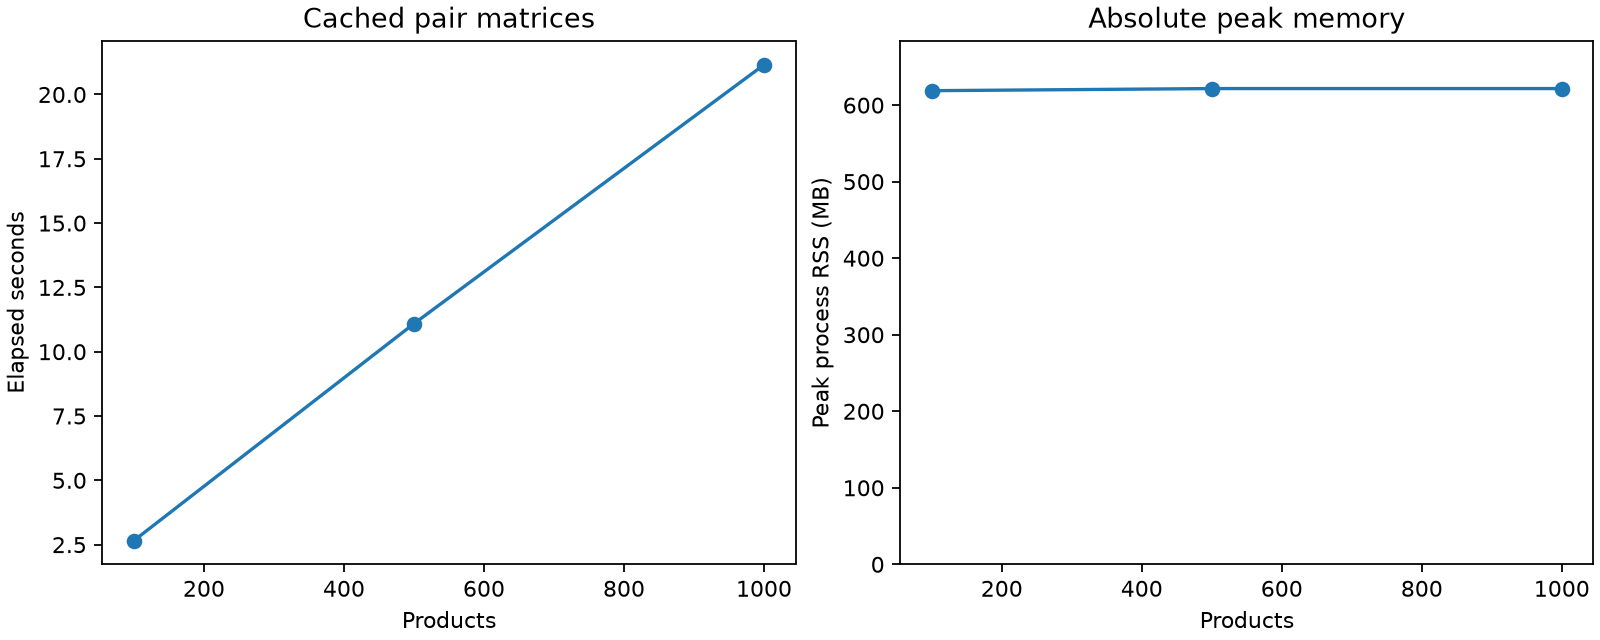
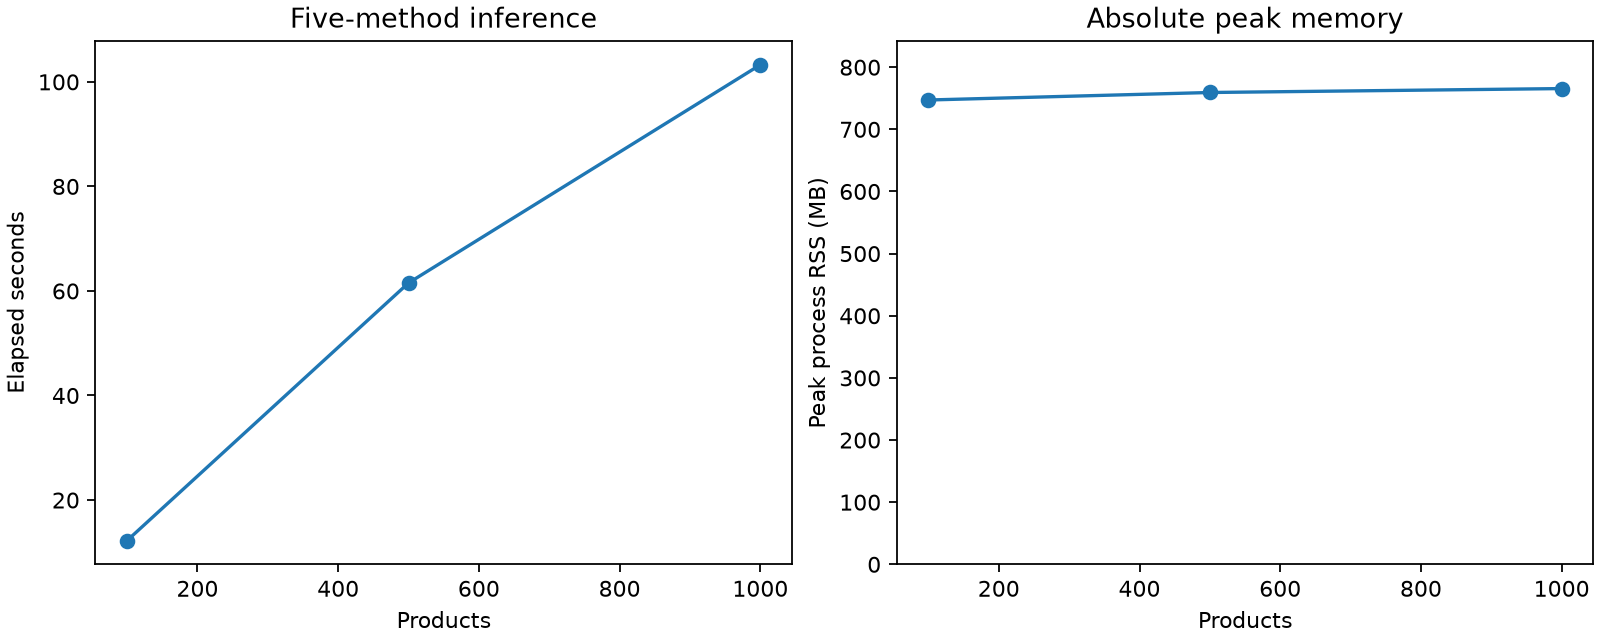
Complete redundancy benchmark and reproducible handoff report

diff --git a/report/experiment_results.md b/report/experiment_results.md
@@ -1,0 +1,119 @@
+# 组员一真实实验与交接报告
+
+## 结论及范围
+
+已完成固定数据审计、6,000对真实评论的自动辅助标注、2,000个合成训练正例与100个变换审阅、A—E五方法训练/对照、参数锁定后一次最终测试，以及全部同ASIN对推断。验证选型目标没有方法达标；五方法保留为探索性候选。
+
+标签未经独立人类金标准复核；候选按相似度、随机和短文配额富集。评价只说明这一固定参考标签集上的表现，不能估计自然重复率或判断水军。全量输出全部review，不直接赋予降权权重，不生成传递重复组。
+
+## 数据与版本
+
+- 固定样本90,750行、1,000个ASIN、71,133个用户。
+- SHA-256：8f1037a6987436a7c19b56766c42969526374145b8d02dde02caa5b1b750f0ec。
+- 五字段额外副本231行；同商品文本重复594组、额外632行；跨商品文本重复1075组。
+- 全样本措辞重复额外6855行，与同商品口径不同且有重叠，不能相加。
+- 有界扫描100万、局部缓冲打乱、按观测频次挑1,000商品、每商品最多100条；不是类别总体均匀随机抽样。未保留parent_asin，原下载revision未记录。
+- 改进清洗与旧版本12条差异留表；原五字段CSV未改写。异常排除及全部字段见data_audit.md。
+
+## 方法定义
+
+|方法|实现|分数含义|
+|---|---|---|
+|A|规范化精确匹配|相同正文标记0/1|
+|B|字符TF-IDF阈值|字符3—5 gram余弦相似度|
+|C|词面特征逻辑回归|未校准分类器输出|
+|D|固定MiniLM语义向量阈值|语义向量余弦相似度|
+|E|词面加语义特征逻辑回归|未校准分类器输出|
+
+## 标签与训练
+
+| split | label | n |
+| --- | --- | --- |
+| train | exact | 1 |
+| train | near | 184 |
+| train | distinct | 2073 |
+| train | uncertain | 1742 |
+| validation | exact | 0 |
+| validation | near | 83 |
+| validation | distinct | 467 |
+| validation | uncertain | 450 |
+| test | exact | 0 |
+| test | near | 44 |
+| test | distinct | 661 |
+| test | uncertain | 295 |
+
+同商品分组划分700/150/150个ASIN；跨集合相同规范化正文进入公共模板池。保留原600与1200批次，最终批次固定在模型拟合之前，不依据测试成绩补标。训练只用确定参考标签2258对；uncertain不强行转为负例。
+
+合成训练2000对，总权重564.50，真实确定训练权重2258；合成占合并权重20%。复制、空格、大小写、标点和受限拼写变动各审20例，来源均为训练评论。
+
+TF-IDF仅拟合训练记录，char_wb 3—5 gram/min_df2/max100,000。C/E数值特征标准化后L2逻辑回归，只在验证集比较C=0.1/1/10；实际配置见models/model_lock.json。模型只用正文，不输入商品、用户、评分、时间或标签来源。
+
+## 验证选型及测试
+
+资格要求完整验证批次的保守precision下界≥95%，且至少30个允许正预测；不确定正预测纳入分母。验证结果见validation_comparison.csv，包括原150、增补300、新增550三个批次。选型结果：none。不达标配置按已锁定的探索阈值评价，不能解释为自动识别部署。
+
+最终测试共1000对；确定二分类705对、不确定295对。阈值及模型在读取测试标签前锁定，之后没有据测试调参。
+
+| method | threshold | n | TP | FP | FN | TN | precision | recall | F1 | precision bound | unresolved positive |
+| --- | --- | --- | --- | --- | --- | --- | --- | --- | --- | --- | --- |
+| A | 1.000000 | 705 | 0 | 0 | 44 | 661 | undefined (no positive prediction) | 0.00% | 0.00% | undefined | 0 |
+| B | 0.800000 | 705 | 0 | 1 | 44 | 660 | 0.00% | 0.00% | 0.00% | 0.00% to 0.00% | 0 |
+| C | 0.500000 | 705 | 2 | 1 | 42 | 660 | 66.67% | 4.55% | 8.51% | 11.76% to 94.12% | 14 |
+| D | 0.800000 | 705 | 15 | 143 | 29 | 518 | 9.49% | 34.09% | 14.85% | 7.21% to 31.25% | 50 |
+| E | 0.500000 | 705 | 2 | 1 | 42 | 660 | 66.67% | 4.55% | 8.51% | 11.76% to 94.12% | 14 |
+
+C/E各只有3个确定标签上的正预测（2真阳性、1假阳性），另有14个不确定正候选；66.67%不包含这些不确定项，不能视为稳定高精确率。
+
+无正预测时precision及其区间无定义，图中标为N/A；CSV数值0需结合precision_defined=False解读，不能解释为产生了错误正预测。精确匹配A只覆盖相同措辞，监督池移除公共模板和记录副本后，自然完全匹配正例可能很少。
+
+### 商品bootstrap，1,000次、seed42
+
+| method | products | status | precision 95% CI | recall 95% CI | F1 95% CI |
+| --- | --- | --- | --- | --- | --- |
+| A | 141 | ok | undefined/unavailable | 0.00% to 0.00% | 0.00% to 0.00% |
+| B | 141 | ok | 0.00% to 0.00% | 0.00% to 0.00% | 0.00% to 0.00% |
+| C | 141 | ok | 0.00% to 100.00% | 0.00% to 12.20% | 0.00% to 21.29% |
+| D | 141 | ok | 4.82% to 14.86% | 20.75% to 45.66% | 8.00% to 22.03% |
+| E | 141 | ok | 0.00% to 100.00% | 0.00% to 11.76% | 0.00% to 20.41% |
+
+重采样单位为ASIN，有效重采样不足时标为unavailable。区间反映该富集参考标签基准的不确定性，未证明自然场景95%精确率。
+
+### 语义增量
+
+E相对C的测试precision差+0.00个百分点、recall差+0.00个百分点、F1差+0.00个百分点。这是观察差异，不是显著性结论，也不能据测试差异重选模型。语义向量缓存约133MiB，额外编码耗时见性能节；当前配置没有观察到这一成本带来的增量收益。
+
+MiniLM固定revision 1110a243fdf4706b3f48f1d95db1a4f5529b4d41，384维、float32归一化、最长256 word pieces；1324条评论被截断。长文本分组、exact/near/distinct/short及各批次结果见test_breakdowns.csv。编码器未微调。共同商品词、相似情绪与否定差异仍需看正文判断。
+
+## 错误与合成检查
+
+error_cases.csv提供21个错误/不确定案例及正文、参考理由、五方法分数和下游风险；各类最多10个、不足全部展示。案例按E方法已锁定的探索阈值整理，并附五种方法分数；不是全体方法错误的全集。具体原因复核记录见error_cases_review.csv及error_analysis.md。全量待复核不会自动误降权。
+
+合成测试只使用测试集合原评论，单独报告已知复制/扰动检出率，precision/F1因只有正例而无定义。详见synthetic_test_detection.csv，共25个方法/变换组合；C/E对本批复制及扰动全部检出，但真实近似重复召回仍低，说明这些合成变换的难度与真实改写不同，不替代真实评价。
+
+## 性能与全量结果
+
+模型首次加载/下载35.74秒，独立正文GPU编码45.91秒，torch峰值分配显存387.99MiB。缓存推断使用CPU词面/分类及现有向量，不重复下载或编码。
+
+| products | reviews | pairs | seconds | peak_rss_mb | gpu_peak_mb |
+| --- | --- | --- | --- | --- | --- |
+| 100 | 9258 | 430688 | 12.252 | 747.211 | 0 |
+| 500 | 45585 | 2092467 | 61.535 | 759.277 | 0 |
+| 1000 | 90750 | 4146325 | 103.268 | 765.59 | 0 |
+
+表为完整五方法的特征、评分及决策，不含CSV写出。RSS为单进程绝对峰值，显存为本过程torch分配值，不代表整机占用。
+
+全部1000个商品、4,146,325对、20,731,625方法行已写至results/predictions/pair_scores.csv.gz。含压缩写出的耗时914.90秒、峰值RSS 658.24MiB。输出SHA及模型锁/评价SHA见manifest.json。阈值候选数量只是模型信号，不能作为已确认重复数或自然重复率。
+
+固定10商品交接位于results/handoff/，正文及review_id可回连；predict_pairs与score_product具体调用见runbook.md及handoff_contract.md。原五字段接口保持不变。每对五行包含pair_id、asin、两个review_id、method、score、decision、reason。余弦和未校准分类器分数不能称真实重复概率。
+
+## 工程验收与文件管理
+
+工程问题与修正见third_party_review.md；实际验收见acceptance_report.json。夹具成绩不当作真实模型成绩。生成报告时的代码版本：73aa9d90b75ef286c9e923b7a7acc8916af92d2a。
+
+原始数据、标签、模型、CSV/JSON结果和带输出notebook保留本地；仓库提供代码、研究说明、图及无输出notebook模板。
+
+## 文件与后续建议
+
+完整路径/SHA清单位于artifact_inventory.csv。主要结果：test_comparison.csv、test_breakdowns.csv、test_product_bootstrap.csv、test_pair_predictions.csv、synthetic_test_detection.csv、error_cases.csv；主要图：test_model_comparison.png、test_confusion_matrices.png、final_label_composition.png、cached_pair_performance.png。
+
+组员二接入时先保留review标记，另行讨论降权政策。若要宣称自然场景可自动降权，后续需要独立人类双人标注和自然抽样的验证集，再固定新的实验版本；当前结论足以交付方法比较与复核接口。

diff --git a/report/runbook.md b/report/runbook.md
@@ -2,9 +2,11 @@
 
 ## 环境与状态
 
-Windows宿主，archlinux WSL，项目 /home/joestar/code/bigdata-review-analysis，现有.venv/Python3.14及RTX3060 Laptop 6GB。固定Amazon样本90750评论、1000ASIN。当前已固定6000对目标（4000/1000/1000），正在逐对标注及复核；未经人类金标准复核。当前进度及模型是否存在，以study status与实际文件为准，历史批次保存在data/annotation/original600与original1200。
+Windows宿主，archlinux WSL，项目 /home/joestar/code/bigdata-review-analysis，现有.venv/Python3.14及RTX3060 Laptop 6GB。固定Amazon样本90750评论、1000ASIN。已完成6000对判读（4000/1000/1000）、合成样本检查、五方法训练和锁定后的最终测试；参考标签未经独立人类验证。没有方法满足验证选型目标，全量交接保留待复核。实测结果见experiment_results.md；历史批次保存在data/annotation/original600与original1200。
 
 ## 运行顺序
+
+下列命令是从固定输入重建实验的阶段顺序。已有模型锁和最终评价时，直接查看交付文件或运行validate/report；不要再次拟合、调阈值或重跑测试来改进已封存结果。性能基准单独运行，避免其他计算任务争用资源。
 
 ~~~powershell
 wsl -d archlinux
@@ -59,11 +61,11 @@ product_scores = p.score_product(g[["asin", "review_id", "text"]])
 
 每对输出5行：pair_id、asin、review_id_a、review_id_b、method、score、decision、reason。A规范化匹配0/1，B字符TFIDF余弦，C词面逻辑回归输出，D编码器余弦，E词面+语义逻辑回归输出；分类器分数未校准，不能称真实重复概率。正文接口虚拟ID不能回连原CSV；交换两段正文保持同一pair_id。商品接口要求单ASIN、唯一ID、非空正文，每个已知ID的正文和ASIN必须核对，即使同时包含新ID。
 
-少于5词默认review并保留匹配信号。未训练C/E分数为空；训练后输出完整分数。逐商品计算全部对，不创建90k全局稠密矩阵；无降权权重、无自动传递聚类。错误消息指出缺标签、版本或校验失败，不能复用过期缓存/锁。
+少于5词默认review并保留匹配信号。当前C/E已训练，五种方法均输出完整分数。逐商品计算全部对，不创建90k全局稠密矩阵；无降权权重、无自动传递聚类。错误消息指出缺标签、版本或校验失败，不能复用过期缓存/锁。
 
 ## Git归档
 
-按阶段提交和推送代码、说明与安全图。保留用户原忽略设置；原始大样本、133MiB向量缓存及全量对输出留在WSL，不上传GitHub大文件。标签、CSV/JSON结果和带输出的notebook留本地，不通过强制加入绕过忽略规则。提交前运行scripts/check_git_scope.py。最终报告列实际提交ID、未完成门槛及留在本地的文件。
+按阶段提交和推送代码、说明与安全图。保留用户原忽略设置；原始大样本、133MiB向量缓存及全量对输出留在WSL，不上传GitHub大文件。标签、CSV/JSON结果和带输出的notebook留本地，不通过强制加入绕过忽略规则。提交前运行scripts/check_git_scope.py。最终报告列生成时的代码版本、验收结果及留在本地的文件。
 
 全量结果gzip使用固定mtime=0；manifest记录4,146,325评论对、五方法行数、输出SHA、模型锁SHA、最终评价SHA和实测耗时/内存。validate对总量、校验值和待复核决策范围核对。
 

diff --git a/report/implementation_status.md b/report/implementation_status.md
@@ -1,9 +1,20 @@
 # 实验实现状态
 
-固定样本90,750条评论、1,000个ASIN。6,000评论对按训练4,000、验证1,000、测试1,000划分，保留原600及1200批次。真实评论对已完成逐对判读和边界复核。验证标签已完成，测试标签封存。
+固定样本90,750条评论、1,000个ASIN；评论对基准为6,000对（训练4,000、验证1,000、测试1,000）。按商品划分，并隔离跨集合相同规范化正文。标签由自动辅助判读生成，尚未经过独立人类标注者验证。
 
-稳定编号、质量审计、字符TF-IDF、固定预训练MiniLM向量缓存、五方法训练与评价、商品内全部评论对推断及交接接口已经实现。38项工程测试通过；测试夹具不代表真实模型效果。100个合成变换检查正在进行；真实C/E训练、最终测试与全量推断尚未运行。
+## 已完成
 
-研究对象是文本信息冗余，不能据相同措辞推断评论者真实性。标注来源、抽样限制及评价适用范围见annotation_guide.md与data_audit.md。模型选择只使用验证集，测试在模型及阈值锁定后启封；全量结果用于复核，不直接生成降权权重或传递分组。
+- 数据版本固定、稳定编号、异常及三种重复口径审计。
+- 6,000对正文判读与边界复核；确定训练标签2,258对，其中重复185对、非重复2,073对。
+- 2,000个合成训练正例及100个变换检查；合成权重占合并训练权重20%。
+- 规范化精确匹配、字符TF-IDF、词面逻辑回归、固定MiniLM语义向量、词面加语义逻辑回归五种方法。
+- 验证选型、模型与阈值锁定、一次封存测试。测试确定标签705对，不确定295对。
+- 38项工程检查通过；夹具结果不代表真实模型效果。
 
-数据、标签、模型及CSV/JSON结果保留本地。执行步骤见runbook.md，固定版本所需输入见reproduction_inputs.md。
+## 实测结论
+
+没有方法满足预设的验证精确率95%及至少30个正预测要求。词面逻辑回归与加入语义特征的逻辑回归在锁定测试配置下结果一致：确定标签上精确率66.67%、召回率4.55%，仅3个正预测。单独语义阈值的精确率9.49%、召回率34.09%。这些是固定富集参考标签集的探索结果，不能外推为自然重复率或自动降权效果。
+
+全量1,000商品内部4,146,325对推断已完成，生成20,731,625方法行（压缩结果约570MiB）；10商品交接样例、汇总报告和结果图已生成。数据编号、划分、配对、缓存及全量输出溯源等9项实际验收全部通过；本地审计notebook的6个代码单元执行完成，无错误。全部输出保留待复核标记，不生成降权权重或传递重复组。最终报告位于experiment_results.md，执行及接口说明见runbook.md。
+
+研究对象是文字信息冗余，不能据相同措辞推断评论者真实性。抽样限制及标签定义见data_audit.md与annotation_guide.md。数据、标签、模型和CSV/JSON结果保留本地。

diff --git a/README.md b/README.md
@@ -60,7 +60,7 @@ Dataset source: [Amazon Reviews 2023 on Hugging Face](https://huggingface.co/dat
 
 当前固定样本90,750条/1,000ASIN。评论对基准固定为6,000对（训练4000、验证1000、测试1000；保留原600与1200批次），采用按商品划分和正文隔离。标注来源与适用范围见标注指南；全量交接保持待复核。
 
-详细状态见 [实测交付报告](report/implementation_status.md)，复现及接口见 [运行说明](report/runbook.md)，标注定义见 [标注指南](report/annotation_guide.md)。本地审计notebook已执行；仓库提供[无输出复现模板](notebooks/data_quality_audit_template.ipynb)。
+实测结果见 [实验与交接报告](report/experiment_results.md)，完成状态见 [实现状态](report/implementation_status.md)，复现及接口见 [运行说明](report/runbook.md)，标注定义见 [标注指南](report/annotation_guide.md)。本地审计notebook已执行；仓库提供[无输出复现模板](notebooks/data_quality_audit_template.ipynb)。
 
 ~~~bash
 cd /home/joestar/code/bigdata-review-analysis
@@ -71,5 +71,7 @@ cd /home/joestar/code/bigdata-review-analysis
 ~~~
 
 本地复核页面：http://localhost:8765 。稳定旁表位于data/processed/；标注位于data/annotation/；语义缓存位于models/；10商品交接预览位于results/handoff/。五字段reviews.csv保持原版本，改进清洗与旧版的12条正文差异已经单独记录。
+
+6,000对参考标签及五方法训练、最终测试已经完成；没有方法达到预设验证选型目标。当前词面与词面加语义逻辑回归的测试结果一致，全部候选用于复核。详细指标、样本数和适用范围见实验报告。
 
 模型代码仅使用正文特征，测试标签与训练隔离。冻结预训练MiniLM参数，不训练星级、情感或评论者身份模型，也不生成评分权重或传递重复组。

diff --git a/report/error_analysis.md b/report/error_analysis.md
@@ -1,0 +1,15 @@
+# 封存测试错误案例分析
+
+本次只解释现有 `results/tables/error_cases.csv` 中列出的正文、封存参考标签及已记录方法分数；未重标、重算或调整模型。逐例说明见 `results/tables/error_cases_review.csv`。案例依据E方法已锁定的探索阈值整理，同时保留五种方法分数。案例表共 21 条：误报 1 条、漏报 10 条、不确定 10 条。这些是现有错误案例表的覆盖数，不代表测试集全部错误案例。参考标签未经独立人类验证。
+
+## 观察到的错误形态
+
+唯一误报案例的两段都称产品好用、易安装，但只有一段明确提到耐用；共同商品词和通用赞语可能掩盖了信息差异。漏报案例多是具体体验的改写：如“two”与“2 pack”、Fitbit Charge 2 兼容、带壳使用、哑光外观、指纹识别失效，以及旧接口转接用途。型号、数量、条件、否定表达和长短差异都可能使词面重合有限。
+
+不确定案例的共同难点是证据粒度不足：短评只有“works great”“quality”“perfect”等泛化词，或一段具体长评与一句“Wife loved it”相比，无法确认两者谈的是同一项体验。相似的套话只能支持局部措辞重合，不能推断整条评论的信息等价。
+
+## 下游含义
+
+误报若被直接用于降权，会压低保留独有细节的正常评论；不确定案例尤其容易因泛化正向词而被过度合并。漏报会使重复的具体体验继续被多次计入，影响冗余估计，但不证明相关评论是虚假、协同发布或应当删除。案例解释是根据可见正文提出的可能机制，不是对误差成因的因果证明。
+
+所有不确定项和自动候选均需人工复核；这份分析不构成自动降权依据。全量候选待复核，不自动降权。
